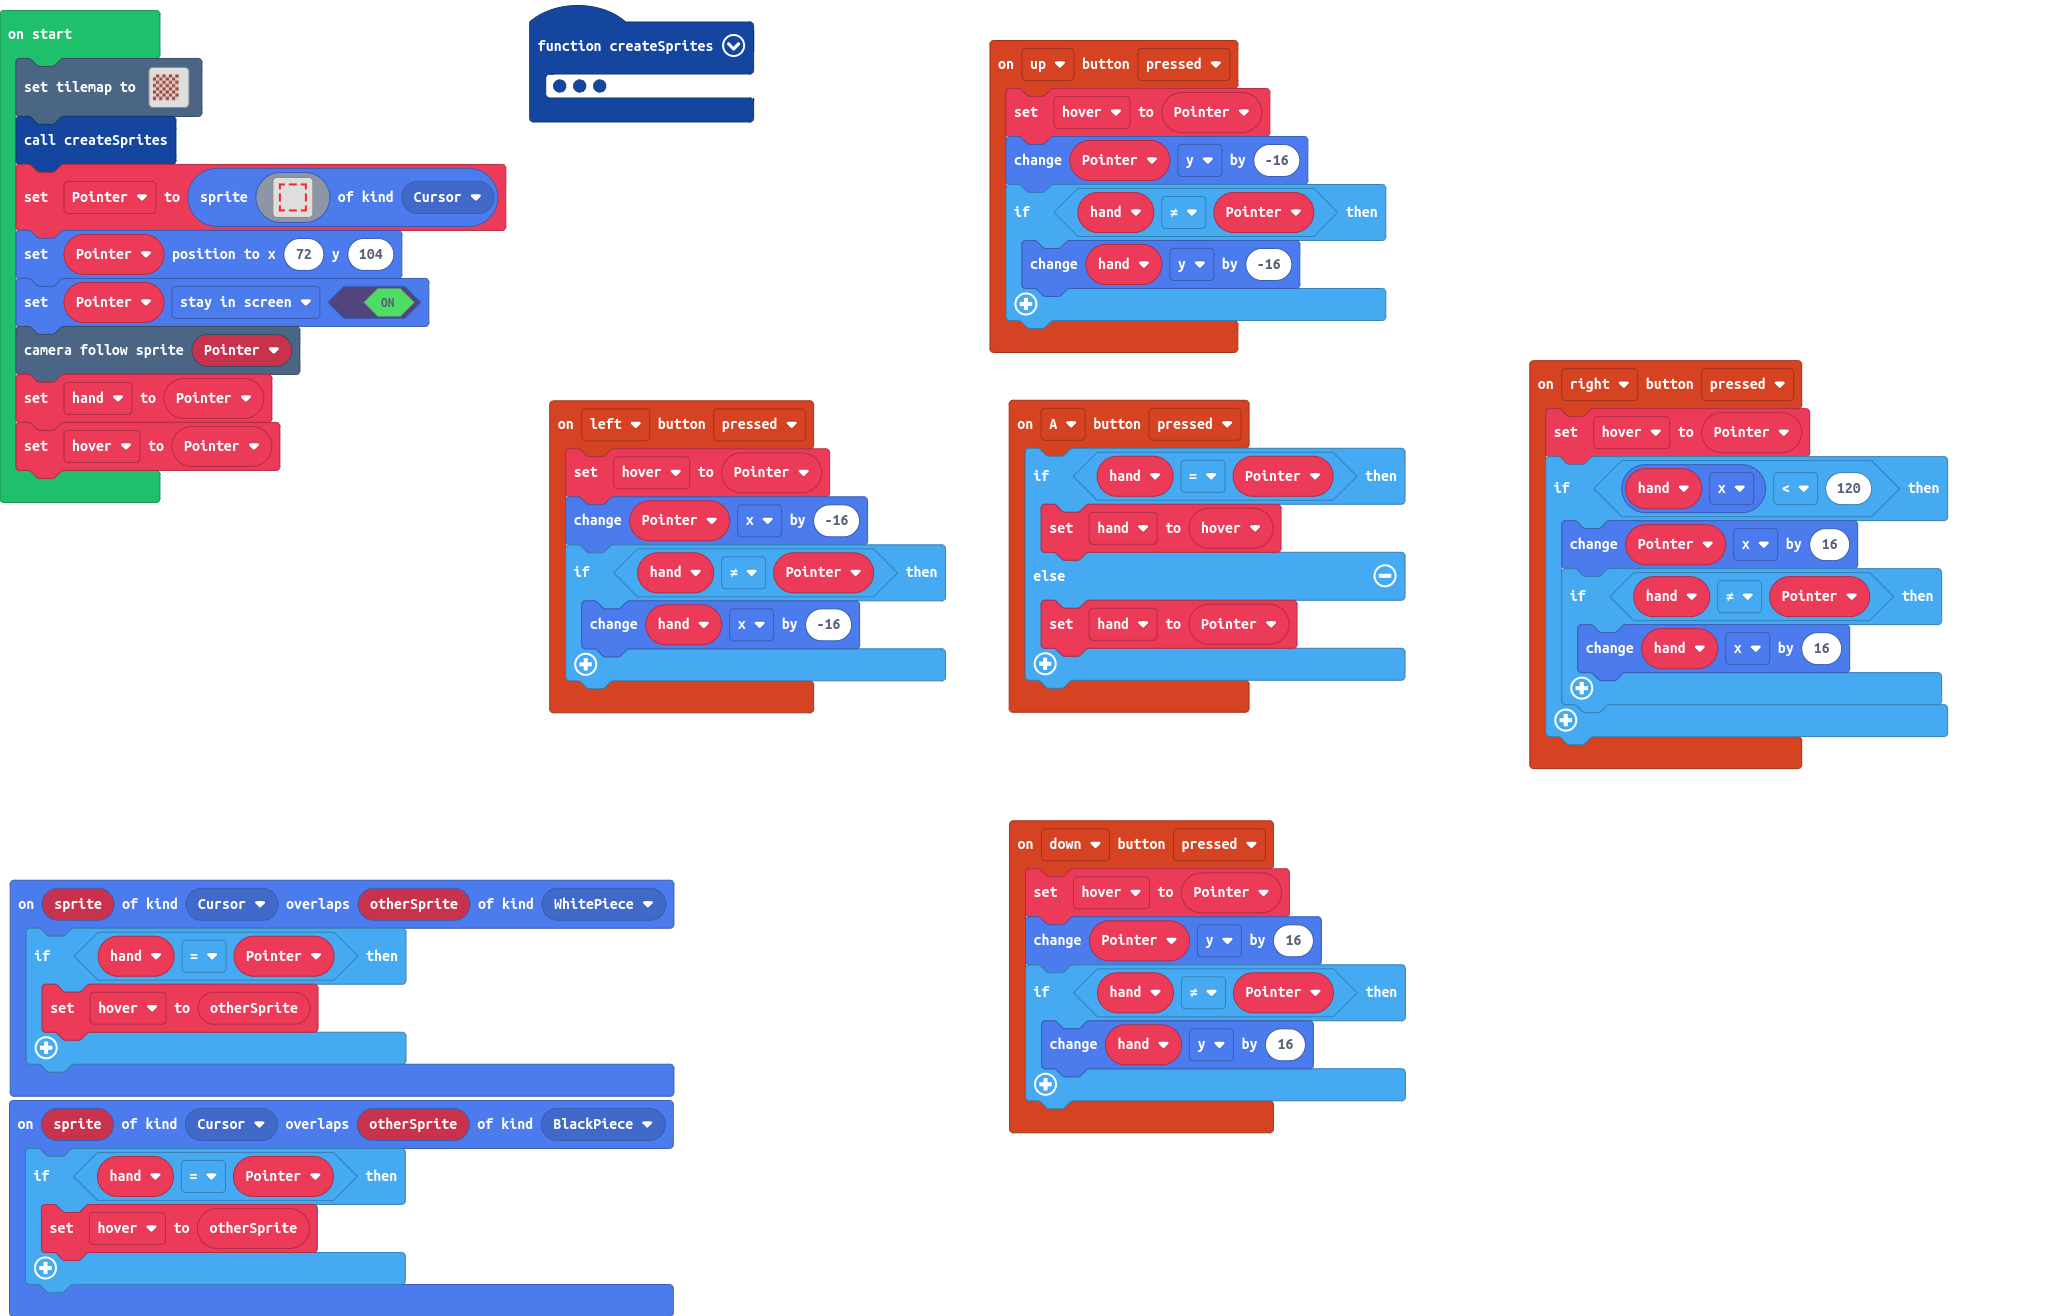
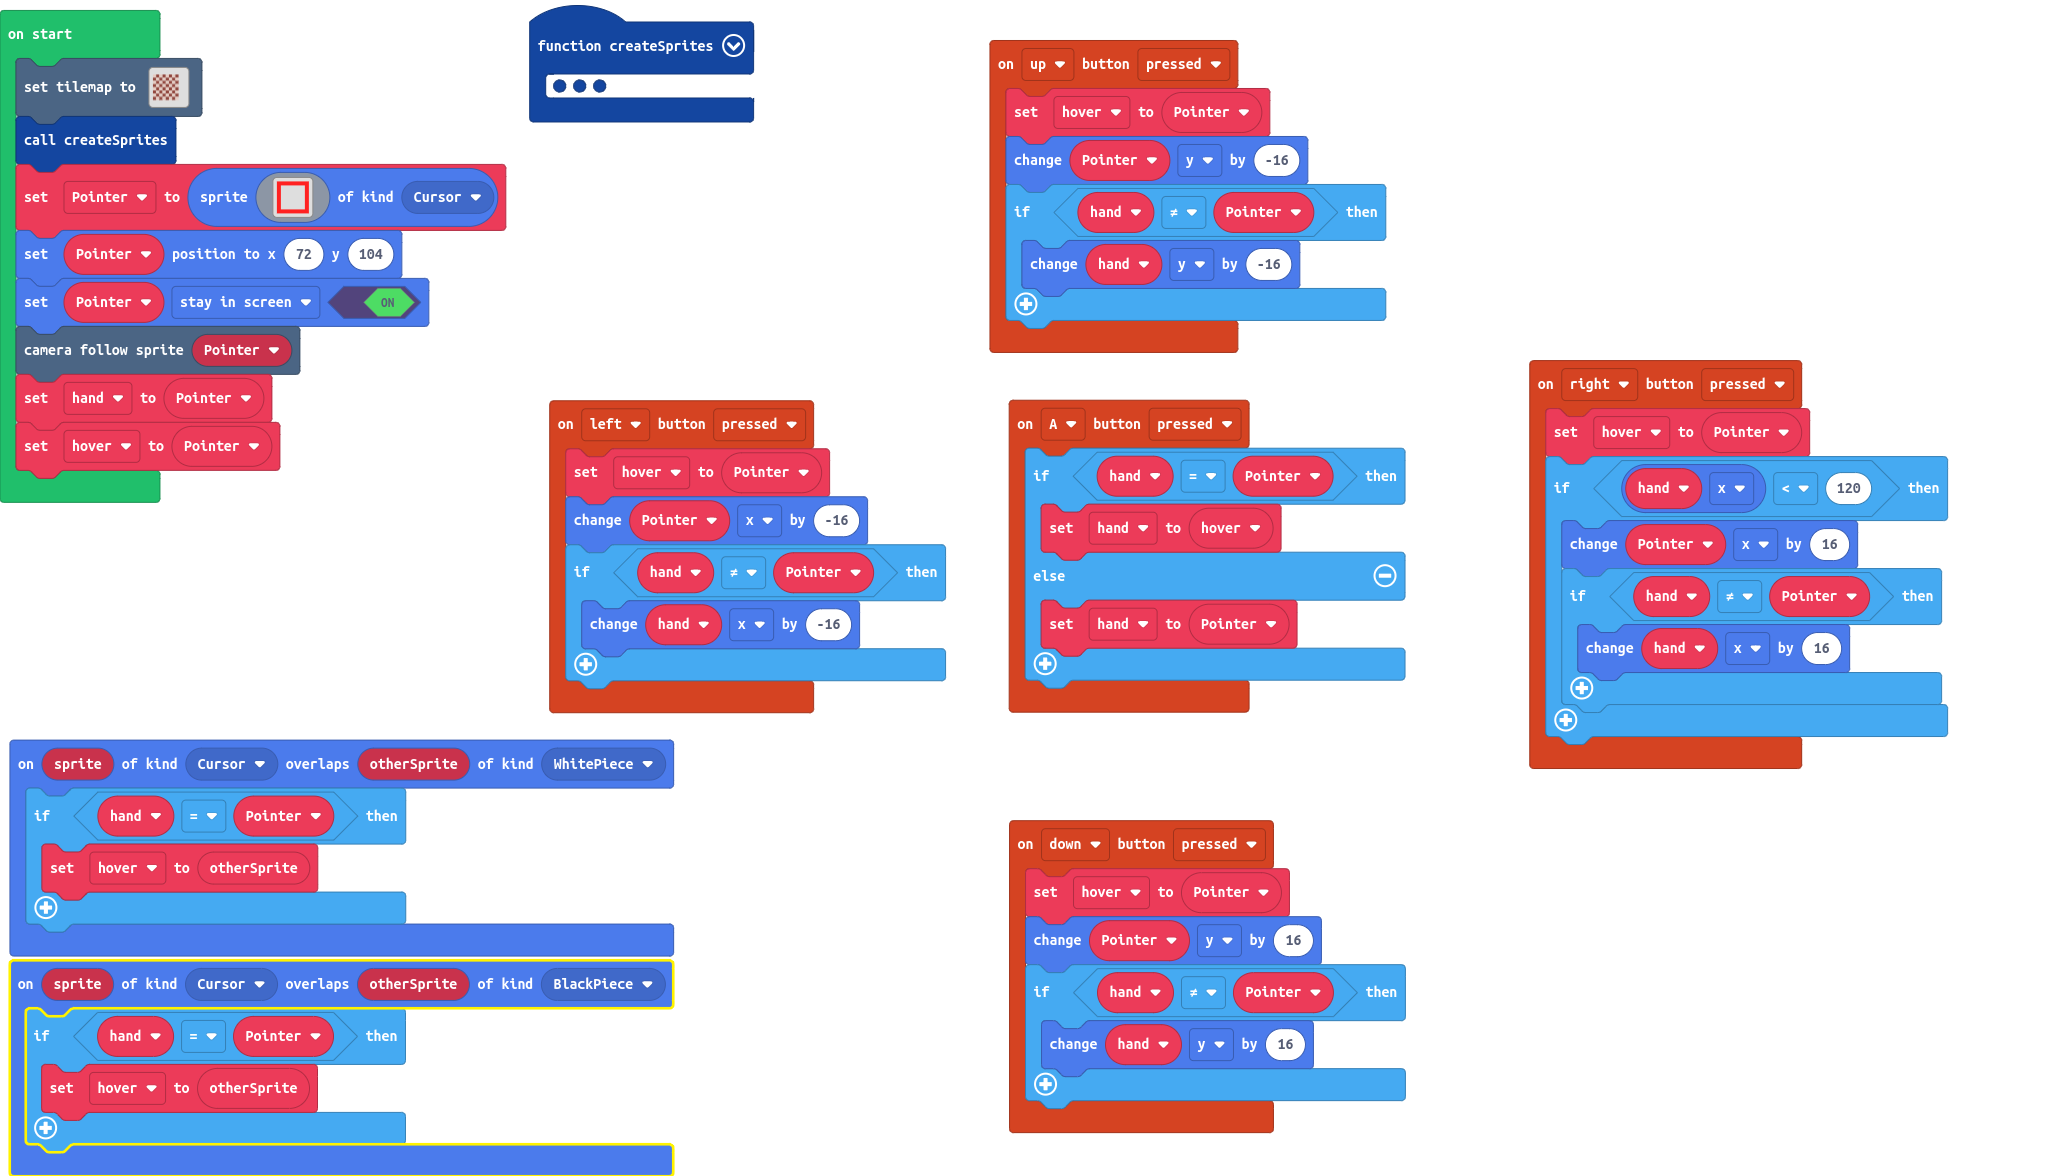
Update main.blocks, main.ts

diff --git a/main.ts b/main.ts
@@ -698,22 +698,22 @@ let Pointer: Sprite = null
 tiles.setTilemap(tilemap`level_0`)
 createSprites()
 Pointer = sprites.create(img`
-    . . . . . . . . . . . . . . . . 
-    . 2 2 2 . . 2 2 2 2 . . 2 2 2 . 
-    . 2 . . . . . . . . . . . . 2 . 
-    . 2 . . . . . . . . . . . . 2 . 
-    . . . . . . . . . . . . . . . . 
-    . . . . . . . . . . . . . . . . 
-    . 2 . . . . . . . . . . . . 2 . 
-    . 2 . . . . . . . . . . . . 2 . 
-    . 2 . . . . . . . . . . . . 2 . 
-    . 2 . . . . . . . . . . . . 2 . 
-    . . . . . . . . . . . . . . . . 
-    . . . . . . . . . . . . . . . . 
-    . 2 . . . . . . . . . . . . 2 . 
-    . 2 . . . . . . . . . . . . 2 . 
-    . 2 2 2 . . 2 2 2 2 . . 2 2 2 . 
-    . . . . . . . . . . . . . . . . 
+    2 2 2 2 2 2 2 2 2 2 2 2 2 2 2 2 
+    2 2 2 2 2 2 2 2 2 2 2 2 2 2 2 2 
+    2 2 . . . . . . . . . . . . 2 2 
+    2 2 . . . . . . . . . . . . 2 2 
+    2 2 . . . . . . . . . . . . 2 2 
+    2 2 . . . . . . . . . . . . 2 2 
+    2 2 . . . . . . . . . . . . 2 2 
+    2 2 . . . . . . . . . . . . 2 2 
+    2 2 . . . . . . . . . . . . 2 2 
+    2 2 . . . . . . . . . . . . 2 2 
+    2 2 . . . . . . . . . . . . 2 2 
+    2 2 . . . . . . . . . . . . 2 2 
+    2 2 . . . . . . . . . . . . 2 2 
+    2 2 . . . . . . . . . . . . 2 2 
+    2 2 2 2 2 2 2 2 2 2 2 2 2 2 2 2 
+    2 2 2 2 2 2 2 2 2 2 2 2 2 2 2 2 
     `, SpriteKind.Cursor)
 Pointer.setPosition(72, 104)
 Pointer.setFlag(SpriteFlag.StayInScreen, true)
